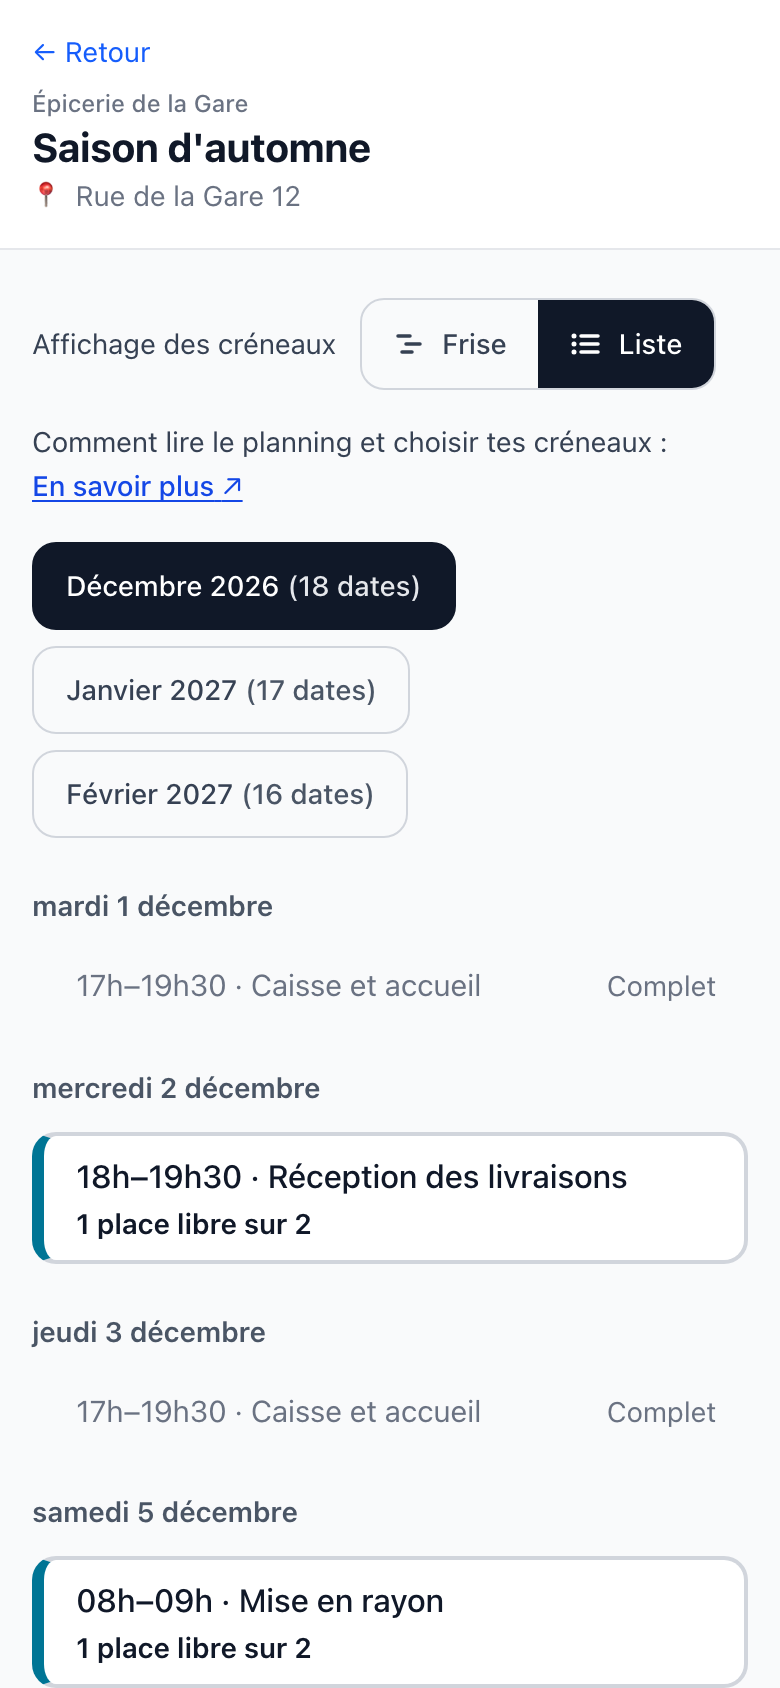
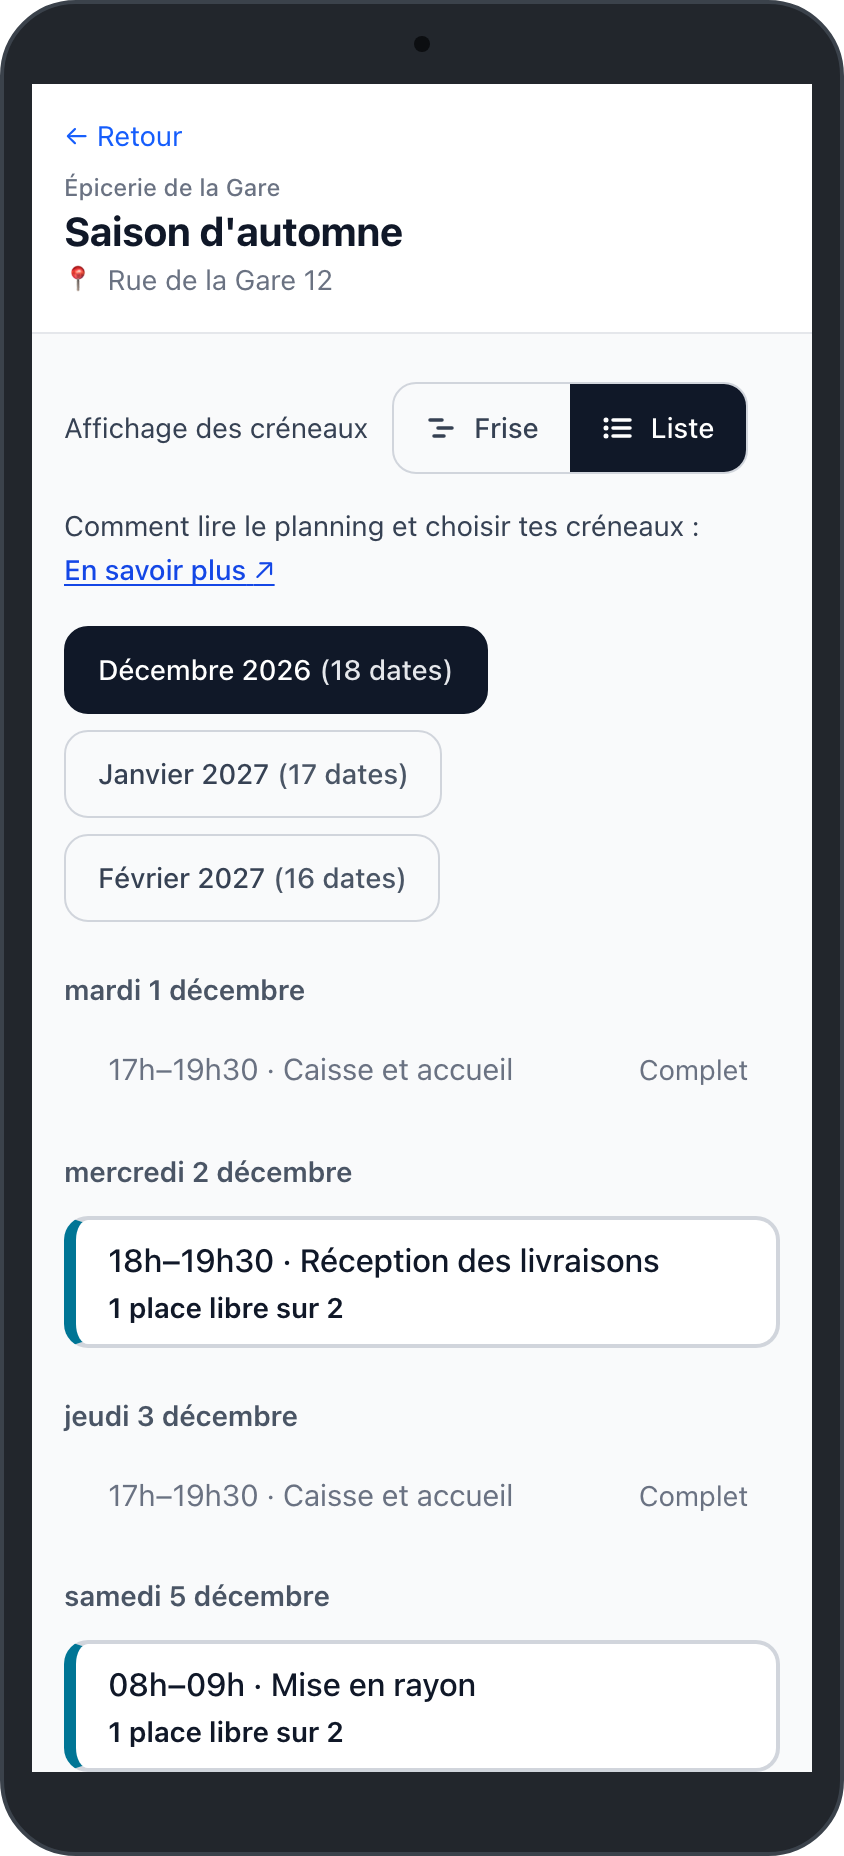
docs(guide): the list and the timeline on a phone, upright and turned (#1461)
* docs(guide): the list and the timeline on a phone, upright and turned

Three captures in the volunteer guide: the list a phone held upright opens on, with the sentence that offers the timeline, then the same day as a timeline, cut at the right when the phone is upright and whole when it is turned.

* docs(screenshots): phone captures of the guides drawn inside a phone

The four phone captures shown in the guides and the permanences page are now the phone's screen inside a plain phone shape, upright or turned, so a reader sees at once what kind of screen it is. The capture of the home page keeps its own frame in the page.

* docs(screenshots): the phone capture of the public pages and the README inside a phone

A framed twin of the home page's phone capture, for the two situation pages and the README, which show it as a plain picture. The home page keeps the bare capture inside its own frame.

Changed region(s): [[0.0, 0.0, 1.0, 1.0], [0.7692, 0.8009, 0.9231, 0.8626], [0.7692, 0.5545, 0.8923, 0.5853]]

diff --git a/src/lib/doc-screenshots.ts b/src/lib/doc-screenshots.ts
@@ -21,6 +21,10 @@ export const DOC_SCREENSHOTS: Record<string, string[]> = {
   "public-selection": ["src/app/[eventSlug]/page.tsx"],
   "public-registration-birthdate": ["src/app/[eventSlug]/page.tsx"],
   "public-timeline-mobile": ["src/app/[eventSlug]/page.tsx"],
+  "public-timeline-phone": ["src/app/[eventSlug]/page.tsx"],
+  "public-list-mobile": ["src/app/[eventSlug]/page.tsx"],
+  "public-timeline-phone-upright": ["src/app/[eventSlug]/page.tsx"],
+  "public-timeline-phone-turned": ["src/app/[eventSlug]/page.tsx"],
   "public-group-link": ["src/app/[eventSlug]/page.tsx"],
   "public-permanences-mobile": ["src/app/[eventSlug]/page.tsx"],
   "public-waitlist-selection": ["src/app/[eventSlug]/page.tsx"],

diff --git a/CHANGELOG.md b/CHANGELOG.md
@@ -43,6 +43,7 @@ Format basé sur [Keep a Changelog](https://keepachangelog.com/fr/1.0.0/).
 - **Planning sur téléphone** : sur la page d'inscription, un téléphone tenu droit affiche les créneaux en liste d'office, la frise reste l'affichage des écrans plus larges et du téléphone tourné à l'horizontale ; le choix « Frise / Liste » est plus visible (libellé « Affichage des créneaux », une icône par bouton) et un choix fait l'emporte toujours (#1407).
 - **Affichage des créneaux par défaut** : la page d'inscription suit le choix du visiteur, sinon le réglage de l'événement (« Automatique », « Frise » ou « Liste », dans ses paramètres), sinon la largeur où la frise reste lisible, calculée d'après les créneaux de l'événement et jamais au-delà de 640 px ; une saison de permanences s'affiche toujours en liste. La phrase qui invite à faire défiler la frise n'apparaît plus que si elle déborde vraiment, un téléphone tenu droit propose de le tourner quand la frise y tiendrait, et une indication unique sur « Frise » montre qu'on peut changer d'affichage (#1407).
 - **Phrase sous « Frise / Liste » sur téléphone** : elle nomme aussi le bouton, pour qui ne peut pas tourner son téléphone (rotation verrouillée, téléphone sur un support) : « Pour voir la journée en frise, tourne le téléphone ou touche « Frise ». »
+- **Guide « Choisir ses créneaux »** : trois nouvelles captures sur téléphone, la liste avec la phrase qui propose la frise, puis la même journée en frise, coupée à droite quand le téléphone est tenu droit et entière quand il est tourné.
 - **Isolation réseau** : PostgreSQL et le serveur de médias n'ouvrent plus aucune connexion sortante ; le Job de migration ne joint plus que la base et le DNS du cluster, et les tâches planifiées qui appellent l'application ne joignent plus que le DNS et Traefik. Les sorties de l'application et des sauvegardes restent libres. <!-- interne -->
 - **Vidéos sur YouTube** : `make video-youtube ID=…` envoie une vidéo publiée sur la chaîne @benevolapp, avec ses sous-titres (la narration), une vignette (titre court en gros, public, écran de la vidéo), un enregistrement téléphone placé dans un cadre 16:9 pour ne pas devenir un Short, et une description reliée à sa page sur le site ; une playlist par thème du catalogue, `ALL=1` (avec `EXCEPT=…`) pour toute la bibliothèque, reprise après un quota épuisé ; privée par défaut, voix de synthèse déclarée, `PRIVACY=public` pour publier, état dans `videos/youtube.json`. <!-- interne -->
 - **Chaîne YouTube** : première publication, les 23 vidéos à jour et 9 playlists, une par thème ; les vidéos à refilmer suivront après leur nouvelle prise. <!-- interne -->

diff --git a/content/guide/choisir-ses-creneaux.md b/content/guide/choisir-ses-creneaux.md
@@ -43,7 +43,15 @@ Sur un téléphone tenu droit, les créneaux s'affichent en **Liste** quand la f
 
 Dans la vue **Liste**, un créneau qui peut être choisi porte la couleur de son poste sur un bord à gauche ; un créneau qui ne peut pas être choisi (complet, fermé, terminé, réservé, en conflit, inscriptions fermées) est écrit en gris, sans cadre ; son état suit le titre (à droite sur un petit écran), ou passe dessous quand la ligne est trop étroite.
 
-![Planning public d'un événement sur mobile, vue Frise choisie au-dessus du planning : les créneaux du jour en barres colorées, à faire défiler horizontalement](/doc-img/public-timeline-mobile.png)
+![Planning public d'un événement sur un téléphone tenu droit, en liste : sous les boutons « Frise » et « Liste », la phrase « Pour voir la journée en frise, tourne le téléphone ou touche « Frise ». », puis les créneaux du jour les uns sous les autres, ceux qu'on peut choisir avec la couleur de leur poste à gauche, les créneaux complets en gris sans cadre](/doc-img/public-list-mobile.png)
+
+La même journée en **Frise**, sur le même téléphone. Tenu droit, il ne montre que le début de la journée, et le reste se fait défiler sur le côté :
+
+![Frise d'une journée sur un téléphone tenu droit : seules les premières heures tiennent dans l'écran, la phrase « Fais défiler pour voir toutes les plages » au-dessus](/doc-img/public-timeline-phone-upright.png)
+
+Tourné à l'horizontale, il montre toute la journée d'un coup :
+
+![Frise de la même journée sur le téléphone tourné à l'horizontale : les postes en lignes et tous les créneaux de la journée visibles ensemble, de 7 h à 1 h du matin](/doc-img/public-timeline-phone-turned.png)
 
 Certains postes affichent un petit repère (par exemple « 18+ ») : ils demandent un âge minimum, voir [Âge minimum sur un poste](age-minimum.md). Un créneau complet avec liste d'attente se rejoint comme un autre, voir [Liste d'attente](liste-d-attente.md).
 

diff --git a/README.md b/README.md
@@ -74,7 +74,7 @@ Cette liste est volontairement courte. La présentation publique, par besoins, e
 
 | Planning bénévole (ordinateur) | Planning bénévole (mobile) | Tableau de bord |
 |---|---|---|
-| ![Planning public d'un événement : les postes en lignes, les créneaux en barres colorées par jour, avec places restantes, liste d'attente, « Sur validation » et poste réservé](public/doc-img/public-timeline.png) | ![Planning public sur mobile, les créneaux du jour en barres colorées](public/doc-img/public-timeline-mobile.png) | ![Tableau de bord de l'administration : « Ce qui demande votre attention », du plus urgent au moins urgent](public/doc-img/admin-dashboard.png) |
+| ![Planning public d'un événement : les postes en lignes, les créneaux en barres colorées par jour, avec places restantes, liste d'attente, « Sur validation » et poste réservé](public/doc-img/public-timeline.png) | ![Planning public sur mobile, les créneaux du jour en barres colorées](public/doc-img/public-timeline-phone.png) | ![Tableau de bord de l'administration : « Ce qui demande votre attention », du plus urgent au moins urgent](public/doc-img/admin-dashboard.png) |
 
 > Les captures de la documentation (`public/doc-img/`) viennent de l'événement de démonstration (`scripts/seed-demo.ts`) et se régénèrent avec `npm run screenshots` sur une stack locale, jamais en production. La procédure est dans l'en-tête de `scripts/screenshots.mjs`, les variables (`BASE_URL`, `DEMO_ORG`, `ONLY`, `PUBLIC_ONLY`) dans [docs/configuration.md](docs/configuration.md#scripts-et-tests).
 

diff --git a/content/pages/BENEVOLES-FETE-DE-VILLAGE.md b/content/pages/BENEVOLES-FETE-DE-VILLAGE.md
@@ -8,7 +8,7 @@ C'est gratuit, open source et hébergé en France.
 - [Demander un espace](/inscription)
 - [Créer son premier événement](../guide/creer-son-premier-evenement.md)
 
-![La page d'inscription sur un téléphone : la Fête du village de Montvert, ses postes (Montage, Accueil, Buvette, Navette, Sécurité) sur une frise horaire, avec les places prises et les créneaux complets.](/doc-img/public-timeline-mobile.png)
+![La page d'inscription sur un téléphone : la Fête du village de Montvert, ses postes (Montage, Accueil, Buvette, Navette, Sécurité) sur une frise horaire, avec les places prises et les créneaux complets.](/doc-img/public-timeline-phone.png)
 
 ## Une édition type
 

diff --git a/content/pages/BENEVOLES-MAIRIE-COMMUNE.md b/content/pages/BENEVOLES-MAIRIE-COMMUNE.md
@@ -8,7 +8,7 @@ C'est gratuit, open source et hébergé en France.
 - [Demander un espace](/inscription)
 - [Créer son premier événement](../guide/creer-son-premier-evenement.md)
 
-![La page d'inscription sur un téléphone : la Fête du village de Montvert, ses postes (Montage, Accueil, Buvette, Navette, Sécurité) sur une frise horaire, avec les places prises et les créneaux complets.](/doc-img/public-timeline-mobile.png)
+![La page d'inscription sur un téléphone : la Fête du village de Montvert, ses postes (Montage, Accueil, Buvette, Navette, Sécurité) sur une frise horaire, avec les places prises et les créneaux complets.](/doc-img/public-timeline-phone.png)
 
 ## Une édition type
 
